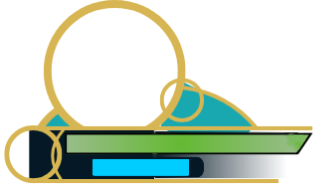
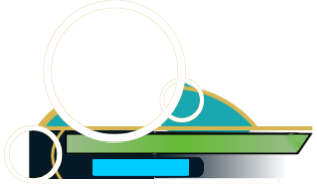
Replace hand-drawn ring PNGs with real CSS borders; fix number scaling in compact cards
A hand-drawn circle is never perfectly round; a CSS border always is.
Removed the three ring PNGs (traced from the hand-drawn PSD) entirely
and replaced them with a shared .hud-ring-gold class (border + box-
shadow) applied directly to each avatar/badge/element box. Also erased
the old ring linework that was separately baked into the background
image itself (contributor-frame-bg.png), using the now-removed ring
PNGs as an alpha mask against it first -- otherwise the old wobbly
lines would still show faintly behind the new crisp ones. This also
collapses the z-order: each ring is now physically part of its own
avatar's box instead of a separately-stacked layer, so z-index is just
main(1) < mini(2) < element(3) now instead of six interleaved layers.

Also fixes hud-repo-count/hud-coin-count overflowing in the compact
Special Thanks cards -- same root cause as the earlier hud-name bug
(clamp()'s vw component is relative to the viewport, not the actual
card, so it never actually shrunk for the smaller grid). Fixed rem
sizes for .contributor-list-compact instead.

Changed region(s): [[0.1136, 0.0, 0.653, 0.7713], [0.0, 0.6649, 0.8801, 0.984]]

diff --git a/public/js/site.js b/public/js/site.js
@@ -335,17 +335,17 @@
       // Discord-only contributor still gets a real photo in the big
       // slot rather than an empty one.
       const mainAvatar = ghUser
-        ? `<img class="hud-avatar-main" id="${mainAvatarId}" src="/api/avatar-image?src=${encodeURIComponent('https://github.com/' + ghUser + '.png')}" alt="" loading="lazy">`
-        : `<div class="hud-avatar-main hud-avatar-fallback" id="${mainAvatarId}">${escapeHtml(initial)}</div>`;
+        ? `<img class="hud-avatar-main hud-ring-gold" id="${mainAvatarId}" src="/api/avatar-image?src=${encodeURIComponent('https://github.com/' + ghUser + '.png')}" alt="" loading="lazy">`
+        : `<div class="hud-avatar-main hud-ring-gold hud-avatar-fallback" id="${mainAvatarId}">${escapeHtml(initial)}</div>`;
       // Mini badge (PSD: "PFP2ProbablyDiscord") is a real second identity
       // when a contributor has both GitHub and Discord -- otherwise
       // there's no second photo to show there, so it falls back to a
       // deterministically-picked Battle Class symbol (gold, matching
       // the frame) on a solid dark-blue fill instead of sitting empty.
       const miniAvatar = hasBoth
-        ? `<div class="hud-avatar-mini hud-avatar-fallback" id="${miniAvatarId}"></div>`
-        : `<div class="hud-avatar-mini hud-avatar-battleclass"><img src="/images/battle-class/${battleClassFor(r.discord_id || r.name)}.png" alt="" loading="lazy"></div>`;
-      const elementIcon = `<img class="hud-element" src="${elementImageUrl(elem.img)}" alt="${escapeHtml(elem.label)} element" title="${escapeHtml(elem.label)} element" loading="lazy">`;
+        ? `<div class="hud-avatar-mini hud-ring-gold hud-avatar-fallback" id="${miniAvatarId}"></div>`
+        : `<div class="hud-avatar-mini hud-ring-gold hud-avatar-battleclass"><img src="/images/battle-class/${battleClassFor(r.discord_id || r.name)}.png" alt="" loading="lazy"></div>`;
+      const elementIcon = `<img class="hud-element hud-ring-gold" src="${elementImageUrl(elem.img)}" alt="${escapeHtml(elem.label)} element" title="${escapeHtml(elem.label)} element" loading="lazy">`;
       const repoCount = r.repos && r.repos !== 'n/a' ? r.repos : '0';
       const coinCount = coinCountFor(r.discord_id, r.name);
       // GitHub first, Discord second -- GitHub is the priority source
@@ -359,19 +359,17 @@
         ghUser ? `<a class="contributor-link" id="${ghLinkId}" href="${escapeHtml(r.github_url)}" target="_blank" rel="noopener noreferrer" aria-label="GitHub">${ICON_GITHUB}GitHub</a>` : '',
         hasDiscord ? `<a class="contributor-link" id="${dcLinkId}" href="https://discord.com/users/${encodeURIComponent(r.discord_id)}" target="_blank" rel="noopener noreferrer" aria-label="Discord">${ICON_DISCORD}Discord</a>` : ''
       ].filter(Boolean).join(' ');
-      // The whole HUD graphic (rings/bars/banners) is the contributor's
-      // own hand-made design -- see .hud's own CSS comment for how each
-      // ring PNG and every percentage position below map back to the
-      // original PSD's real layer coordinates and stacking order.
+      // The bars/banners are the contributor's own hand-made background
+      // art; the three rings are real CSS borders now (.hud-ring-gold),
+      // not PNGs -- see .hud's own CSS comment for why. Every percentage
+      // position below still maps back to the original PSD's real layer
+      // coordinates.
       return `<article class="contributor-card" style="--elem-color:${elem.color}">` +
         `<div class="hud">` +
           `<img class="hud-bg" src="/images/contributor-frame-bg.png" alt="" aria-hidden="true">` +
           mainAvatar +
-          `<img class="hud-ring hud-ring-pfp1" src="/images/contributor-frame-ring-pfp1.png" alt="" aria-hidden="true">` +
           miniAvatar +
-          `<img class="hud-ring hud-ring-pfp2" src="/images/contributor-frame-ring-pfp2.png" alt="" aria-hidden="true">` +
           elementIcon +
-          `<img class="hud-ring hud-ring-element" src="/images/contributor-frame-ring-element.png" alt="" aria-hidden="true">` +
           `<h3 class="hud-name">${escapeHtml(r.name || 'Unknown')}</h3>` +
           `<span class="hud-repo-count" title="Repos contributed to">${escapeHtml(repoCount)}</span>` +
           `<span class="hud-coin-count">${escapeHtml(coinCount)}</span>` +

diff --git a/public/css/site.css b/public/css/site.css
@@ -527,6 +527,28 @@ code {
   line-height: 1.15;
 }
 
+/* Same problem the name had: clamp()'s vw component is relative to the
+   viewport, not this card, so on a normal desktop it computed the same
+   size here as in the big cards regardless of how small the compact
+   grid actually made the box -- these numbers were overflowing their
+   tiny boxes. Fixed rem sizes here instead, sized for the compact
+   card's real width, not the viewport's. */
+.contributor-list-compact .hud-repo-count {
+  font-size: 0.42rem;
+}
+
+.contributor-list-compact .hud-coin-count {
+  font-size: 0.44rem;
+}
+
+/* A 3px border + 2px shadow ring reads fine on a ~130px avatar but
+   looks chunky/disproportionate on a ~40-60px compact one -- thinner
+   ring at this scale. */
+.contributor-list-compact .hud-ring-gold {
+  border-width: 2px;
+  box-shadow: 0 0 0 1px #8a5a12, 0 2px 4px rgba(0, 0, 0, 0.3);
+}
+
 .contributor-card {
   --elem-color: var(--accent);
 }
@@ -537,29 +559,26 @@ code {
   aspect-ratio: 317 / 188;
 }
 
-.hud-bg,
-.hud-ring {
+.hud-bg {
   position: absolute;
   inset: 0;
   width: 100%;
   height: 100%;
   pointer-events: none;
-}
-
-.hud-bg {
   z-index: 0;
 }
 
-.hud-ring-pfp1 {
-  z-index: 2;
-}
-
-.hud-ring-pfp2 {
-  z-index: 4;
-}
-
-.hud-ring-element {
-  z-index: 6;
+/* The three portrait/badge rings used to be separate PNGs traced from
+   the hand-drawn PSD art -- replaced with real CSS borders directly on
+   each avatar instead. A hand-drawn circle is never perfectly round;
+   a CSS border always is, so this is the actual fix for "looks
+   hand-drawn," not just a smoothing pass over the same wobble. It also
+   collapses the z-order: each avatar's ring is now physically part of
+   its own box, so "PFP2 (badge + its ring) above PFP1 (portrait + its
+   ring)" is just two z-index values instead of four interleaved layers. */
+.hud-ring-gold {
+  border: 3px solid #f6d34a;
+  box-shadow: 0 0 0 2px #8a5a12, 0 3px 8px rgba(0, 0, 0, 0.35);
 }
 
 /* FillMaskForPFP1: x=50 y=4 w=132 h=132 -- the big portrait (GitHub,
@@ -596,14 +615,11 @@ code {
 }
 
 /* FillMaskForPFP2: x=162 y=80 w=40 h=40 -- the mini badge (Discord,
-   per "PFP2ProbablyDiscord"). z-index:3, above FrameOfPFP1's ring (2)
-   and the main avatar (1) -- matches the PSD's own real stacking order,
-   so the mini badge's photo genuinely sits on top where it overlaps
-   the main portrait's ring, and FrameOfPFP2 (z:4) then frames this
-   badge specifically without bleeding onto the main portrait. Real
-   second photo when a contributor has one; otherwise a Battle Class
-   symbol fallback (see .hud-avatar-battleclass below) so this slot is
-   never empty. */
+   per "PFP2ProbablyDiscord"). z-index:2, above the main avatar's 1, so
+   the whole badge (photo + its own ring) sits on top where it overlaps
+   the main portrait. Real second photo when a contributor has one;
+   otherwise a Battle Class symbol fallback (see .hud-avatar-battleclass
+   below) so this slot is never empty. */
 .hud-avatar-mini {
   position: absolute;
   left: 51.10%;
@@ -613,7 +629,7 @@ code {
   border-radius: 50%;
   object-fit: cover;
   background: var(--bg);
-  z-index: 3;
+  z-index: 2;
 }
 
 /* Fallback for contributors without a second avatar identity: a
@@ -633,10 +649,9 @@ code {
   object-fit: contain;
 }
 
-/* FillMaskForElement: x=7 y=129 w=52 h=52. z-index:5, below its own
-   FrameOfElement ring (6) but above everything else -- doesn't spatially
-   overlap the PFP1/PFP2 group at all, so this mostly just needs to sit
-   under its own ring. */
+/* FillMaskForElement: x=7 y=129 w=52 h=52. z-index:3, topmost of the
+   three -- doesn't spatially overlap the PFP1/PFP2 group at all, so
+   this is really just "above the background." */
 .hud-element {
   position: absolute;
   left: 2.21%;
@@ -645,7 +660,8 @@ code {
   height: 27.66%;
   border-radius: 50%;
   object-fit: contain;
-  z-index: 5;
+  background: var(--card-bg);
+  z-index: 3;
 }
 
 /* Name: x=205 y=113 w=107 h=13 in the PSD, but that box is too short
